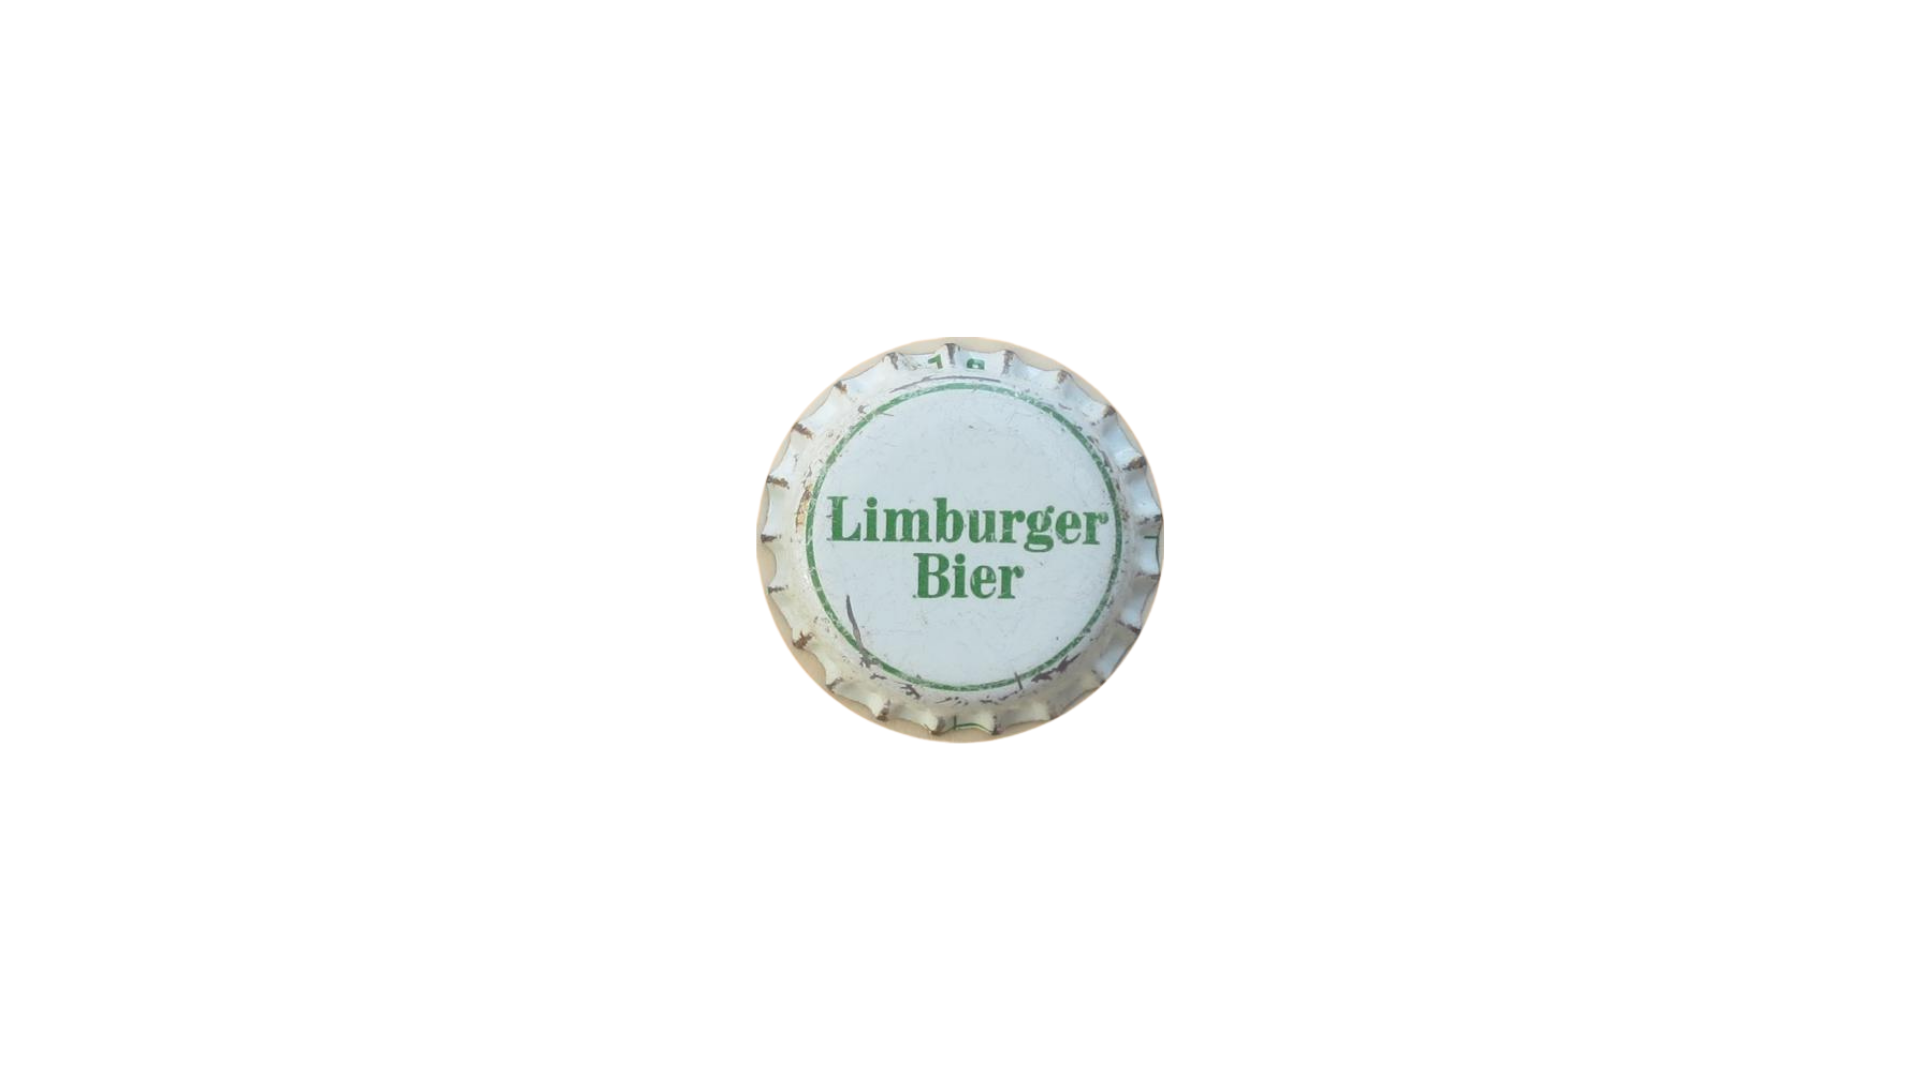
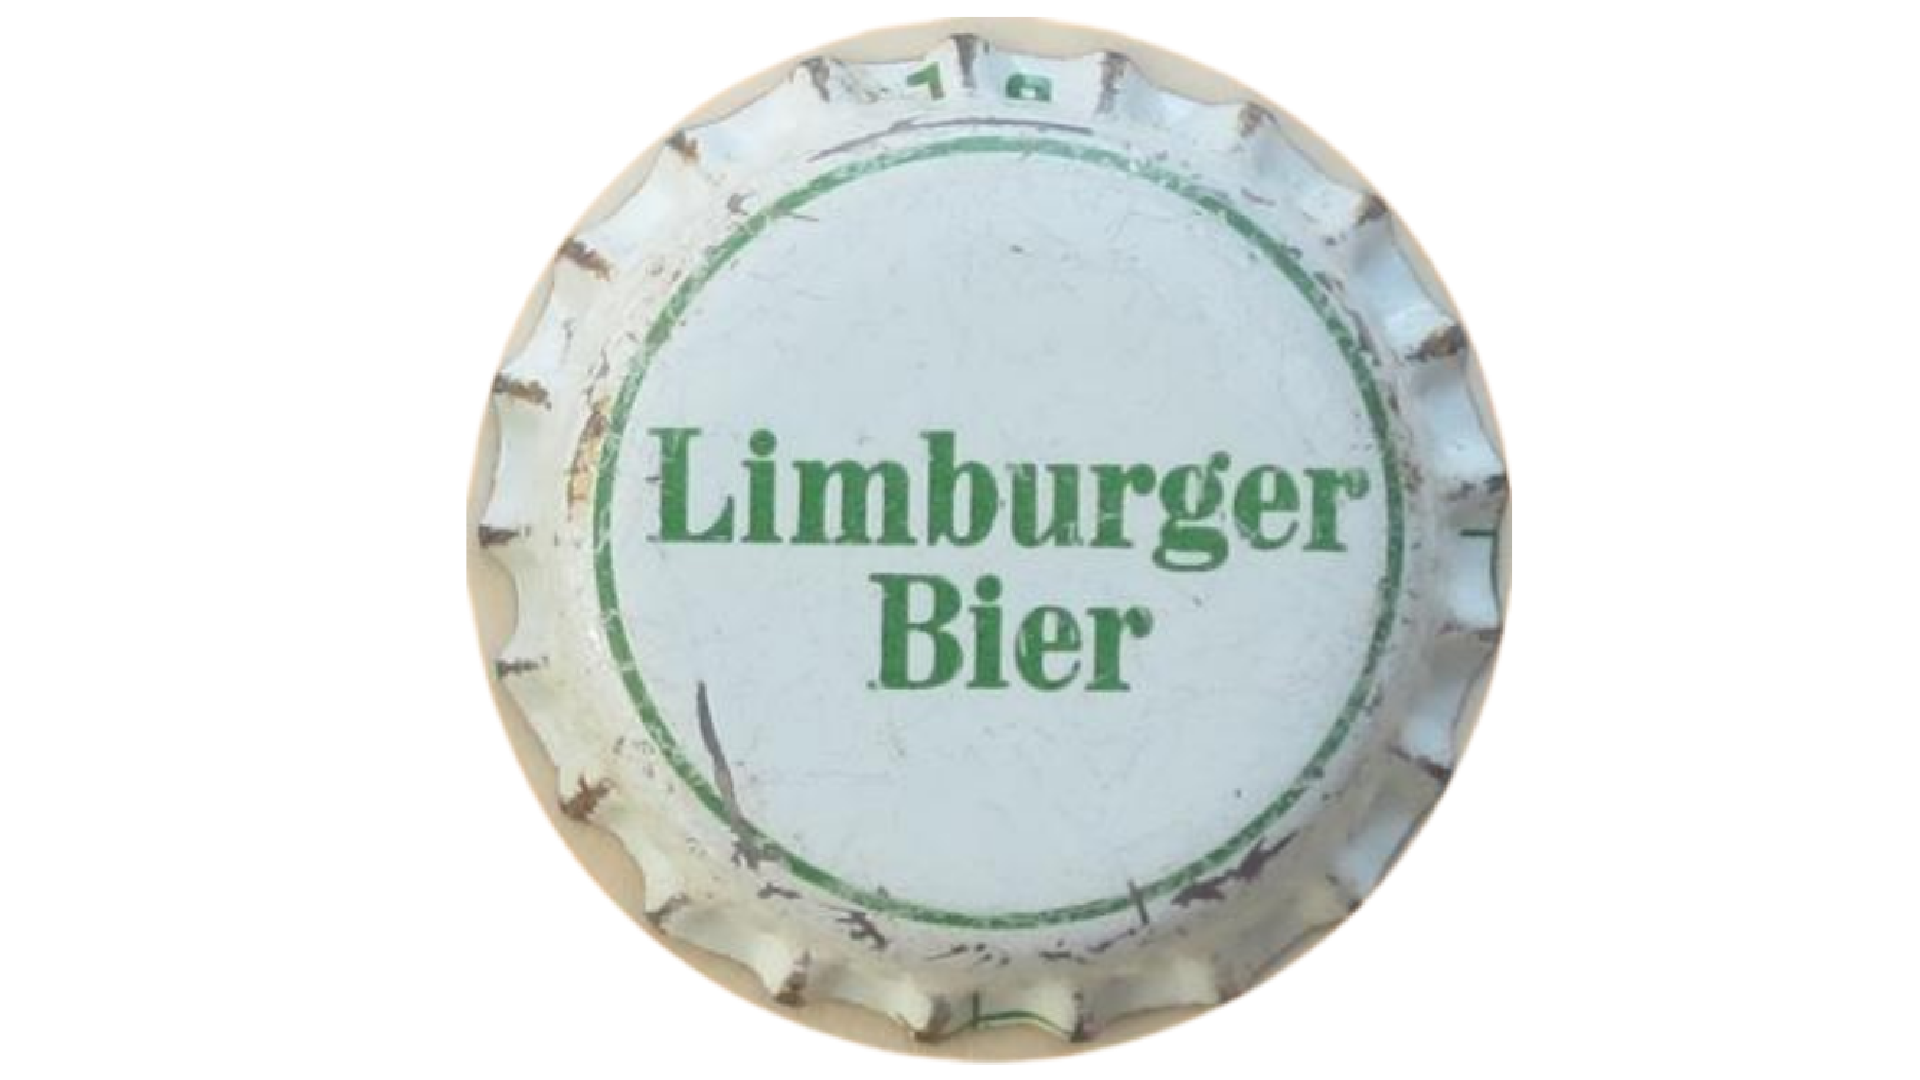
slider

diff --git a/public/css/style.css b/public/css/style.css
@@ -1,1 +1,1 @@
-a{text-decoration:none !important}.hero_area{min-height:100vh;background:radial-gradient(circle, #009300 0%, #000d00 100%);display:flex;flex-direction:column;position:relative}.header_section .container-fluid{padding:0 25px}.custom_nav-container{z-index:9;padding:0;height:80px;justify-content:space-between}.navbar-brand{display:flex;flex-direction:column;align-items:center}.navbar-brand img{margin-top:5px;width:78px}a,a:hover,a:focus{text-decoration:none}.navbar-brand span{color:#ffffff;font-size:24px;font-weight:bold;text-transform:uppercase}.custom_menu-btn{z-index:9;position:absolute;right:0;top:7px}.menu_btn-style{position:fixed;right:15px;top:7px}.menu_btn-style button .s-1{transform:rotate(45deg) translateY(16px)}.menu_btn-style button .s-2{transform:translateX(100px)}.menu_btn-style button .s-3{transform:rotate(-45deg) translateY(-16px)}.custom_menu-btn button{margin-top:14px;outline:none;border:none;background-color:transparent}.custom_menu-btn button span{display:block;width:35px;height:4px;background-color:#ffffff;margin:7px 0;transition:all 0.3s;border-radius:5px}.custom_menu-btn .s-2{transition:all 0.1s;margin-left:-5px}.overlay{height:100%;width:0;position:fixed;z-index:1;top:0;left:0;background-color:black;background-color:#004300;overflow-x:hidden;transition:0.5s}.overlay a{font-family:"Open Sans", sans-serif;padding:0px;text-decoration:none;font-size:22px;color:#ffffff;display:block;transition:0.3s;margin-bottom:15px;text-transform:uppercase;font-weight:bold;opacity:0}.overlay-content{position:relative;top:30%;width:100%;text-align:center;margin-top:30px}.menu_width{width:100%}.menu_width.overlay a{opacity:1}.headline_section{flex:1;display:flex;justify-content:center;align-items:center;position:relative}.headline_section .row{align-items:center}.headline_section .detail-box{color:#ffffff}.headline_section .detail-box h1{font-family:"Righteous", cursive;font-size:2.5rem;padding-bottom:15px;position:relative;text-transform:uppercase;font-weight:600}.headline_section .detail-box h1 span{font-size:4rem}p{font-family:"Open Sans", sans-serif}.headline_section .detail-box .btn-box{display:flex;margin-top:25px}.btn-box{display:flex;flex-wrap:wrap;margin:35px -5px 0 -5px}.headline_section .detail-box .btn-box .btn-1{display:inline-block;padding:12px 45px;color:#000000;transition:all 0.3s;border-radius:3px;text-transform:uppercase}.headline_section .detail-box .btn-box .btn-1:hover{color:whitesmoke}.headline_section .detail-box .btn-box a{width:auto}.btn-box .btn-1{display:inline-block;padding:12px 45px;background-color:#ffffff;color:#000000;transition:all 0.3s;border:1px solid #ffffff;border-radius:3px;text-transform:uppercase;text-decoration:none;font-family:"Righteous", cursive;box-shadow:2px 4px 6px rgba(0,0,0,0.2);transition:box-shadow 0.3s ease, transform 0.2s ease}.btn-box a{width:175px;margin:5px;text-align:center;text-decoration:none}.btn-box .btn-1:hover{background-color:transparent;color:#ffffff;box-shadow:4px 8px 12px rgba(0,0,0,0.3);transform:translateY(-2px)}a,a:hover,a:focus{text-decoration:none}.headline_section .detail-box{color:#ffffff}.slider_section{position:relative;color:#ffffff;flex:1;display:flex;align-items:center;justify-content:center;padding:45px 0 90px 0}.slider_section #customCarousel1{width:100%}.slider_section .container{position:relative;z-index:2}.slider_section .row{align-items:center}.slider_section .detail-box h1{font-weight:bold;font-size:3.5rem;font-family:'Poppins', sans-serif}.slider_section .detail-box img{width:30px;height:30px}.slider_section .detail-box a{margin-top:45px;text-transform:uppercase;display:inline-block;padding:10px 45px;background-color:#279112;color:#ffffff;transition:all 0.3s;border:1px solid #279112;border-radius:0;font-weight:500}.slider_section .detail-box a:hover{background-color:transparent;color:#d0ddce;box-shadow:4px 8px 12px rgba(0,0,0,0.3);transform:translateY(-2px);border:2px solid #279112}.slider_section .carousel-indicators{position:unset;margin-top:45px;list-style-type:none}.slider_section .carousel-indicators li{text-indent:unset;border:none;background-color:#252525;opacity:1;width:12px;height:12px;transition:all .2s}.slider_section .carousel-indicators li.active{background-color:#279112;width:25px}@media (max-width: 767px){.headline_section .detail-box{text-align:center;margin-bottom:45px}.headline_section .detail-box .btn-box{justify-content:center}}@media (max-width: 992px){.headline_section .detail-box h1{font-size:1.9rem}}@media (max-width: 768px){.slider_section{text-align:center}}@media (max-width: 992px){.slider_section{padding-top:45px}}
+a{text-decoration:none !important}.hero_area{min-height:100vh;background:radial-gradient(circle, #009300 0%, #000d00 100%);display:flex;flex-direction:column;position:relative}.header_section .container-fluid{padding:0 25px}.custom_nav-container{z-index:9;padding:0;height:80px;justify-content:space-between}.navbar-brand{display:flex;flex-direction:column;align-items:center}.navbar-brand img{margin-top:5px;width:78px}a,a:hover,a:focus{text-decoration:none}.navbar-brand span{color:#ffffff;font-size:24px;font-weight:bold;text-transform:uppercase}.custom_menu-btn{z-index:9;position:absolute;right:0;top:7px}.menu_btn-style{position:fixed;right:15px;top:7px}.menu_btn-style button .s-1{transform:rotate(45deg) translateY(16px)}.menu_btn-style button .s-2{transform:translateX(100px)}.menu_btn-style button .s-3{transform:rotate(-45deg) translateY(-16px)}.custom_menu-btn button{margin-top:14px;outline:none;border:none;background-color:transparent}.custom_menu-btn button span{display:block;width:35px;height:4px;background-color:#ffffff;margin:7px 0;transition:all 0.3s;border-radius:5px}.custom_menu-btn .s-2{transition:all 0.1s;margin-left:-5px}.overlay{height:100%;width:0;position:fixed;z-index:1;top:0;left:0;background-color:black;background-color:#004300;overflow-x:hidden;transition:0.5s}.overlay a{font-family:"Open Sans", sans-serif;padding:0px;text-decoration:none;font-size:22px;color:#ffffff;display:block;transition:0.3s;margin-bottom:15px;text-transform:uppercase;font-weight:bold;opacity:0}.overlay-content{position:relative;top:30%;width:100%;text-align:center;margin-top:30px}.menu_width{width:100%}.menu_width.overlay a{opacity:1}.headline_section{flex:1;display:flex;justify-content:center;align-items:center;position:relative}.headline_section .row{align-items:center}.headline_section .detail-box{color:#ffffff}.headline_section .detail-box h1{font-family:"Righteous", cursive;font-size:2.5rem;padding-bottom:15px;position:relative;text-transform:uppercase;font-weight:600}.headline_section .detail-box h1 span{font-size:4rem}p{font-family:"Open Sans", sans-serif}.headline_section .detail-box .btn-box{display:flex;margin-top:25px}.btn-box{display:flex;flex-wrap:wrap;margin:35px -5px 0 -5px}.headline_section .detail-box .btn-box .btn-1{display:inline-block;padding:12px 45px;color:#000000;transition:all 0.3s;border-radius:3px;text-transform:uppercase}.headline_section .detail-box .btn-box .btn-1:hover{color:whitesmoke}.headline_section .detail-box .btn-box a{width:auto}.btn-box .btn-1{display:inline-block;padding:12px 45px;background-color:#ffffff;color:#000000;transition:all 0.3s;border:1px solid #ffffff;border-radius:3px;text-transform:uppercase;text-decoration:none;font-family:"Righteous", cursive;box-shadow:2px 4px 6px rgba(0,0,0,0.2);transition:box-shadow 0.3s ease, transform 0.2s ease}.btn-box a{width:175px;margin:5px;text-align:center;text-decoration:none}.btn-box .btn-1:hover{background-color:transparent;color:#ffffff;box-shadow:4px 8px 12px rgba(0,0,0,0.3);transform:translateY(-2px)}a,a:hover,a:focus{text-decoration:none}.headline_section .detail-box{color:#ffffff}.slider_section{position:relative;color:#ffffff;flex:1;display:flex;align-items:center;justify-content:center;padding:45px 0 90px 0}.slider_section #customCarousel1{width:100%}.slider_section .container{position:relative;z-index:2}.slider_section .row{align-items:center}.slider_section .detail-box h1{font-weight:bold;font-size:3.5rem;font-family:'Poppins', sans-serif}.slider-cap{width:165px;margin-top:33px}.slider_section .carousel-indicators{position:unset;margin:0;list-style-type:none}.slider_section .carousel-indicators li{text-indent:unset;border:none;background-color:#252525;opacity:1;width:12px;height:12px;transition:all .2s}.slider_section .carousel-indicators li.active{background-color:#279112;width:25px}@media (max-width: 767px){.headline_section .detail-box{text-align:center;margin-bottom:45px}.headline_section .detail-box .btn-box{justify-content:center}}@media (max-width: 992px){.headline_section .detail-box h1{font-size:1.9rem}}@media (max-width: 768px){.slider_section{text-align:center}}@media (max-width: 992px){.slider_section{padding-top:45px}}

diff --git a/index.html b/index.html
@@ -81,15 +81,24 @@
                         <div class="row">
                           <div class="col-md-6">
                             <div class="detail-box">
-                              <h5>01</h5>
-                              <h1>
+                              <!-- <h1>
                                 der
                                 <br />
                                 klassiker
-                              </h1>
+                              </h1> -->
+                              <!-- <h3>Limburger Bier</h3> -->
+                              <a href="">
+                                <img
+                                  src="../Klausur02_Web/public/img/kronkorken-binding-bier.png"
+                                  alt="Kronkorken"
+                                  class="img-fluid slider-cap"
+                                />
+                              </a>
+
+                              <!-- <div class="img"></div>
                               <a href="overview.html" class=""
                                 >Jetzt anschauen</a
-                              >
+                              > -->
                             </div>
                           </div>
                         </div>
@@ -100,18 +109,14 @@
                         <div class="row">
                           <div class="col-md-6">
                             <div class="detail-box">
-                              <h1>
-                                noch
-                                <br />
-                                ein klassiker
-                              </h1>
-                              <img
-                                src="../Klausur02_Web/public/img/kronkorken-limburger-bier.png"
-                                alt=""
-                              />
-                              <a href="overview.html" class=""
-                                >Jetzt anscheun</a
-                              >
+                              <!-- <h1>ADLER</h1> -->
+                              <a href="details-kronkorken-limburger-bier">
+                                <img
+                                  src="../Klausur02_Web/public/img/kronkorken-adler.png"
+                                  alt="Kronkorken"
+                                  class="img-fluid slider-cap"
+                                />
+                              </a>
                             </div>
                           </div>
                         </div>

diff --git a/private/scss/section-homepage.scss b/private/scss/section-homepage.scss
@@ -131,38 +131,47 @@ a, a:hover, a:focus {
     font-family: 'Poppins', sans-serif;
 }
 
-.slider_section .detail-box img {
-    width: 30px;
-    height: 30px;
+// .img {
+//     background-image: url(../img/kronkorken-limburger-bier.png);
+//     background-position: center;
+//     background-size: 427%;
+//     background-repeat: no-repeat;
+//     height: 212px;
+//     width: 100%;
+// }
+
+// .slider_section .detail-box a {
+//     margin-top: 45px;
+//     text-transform: uppercase;
+//     display: inline-block;
+//     padding: 10px 45px;
+//     background-color: #279112;
+//     color: #ffffff;
+//     transition: all 0.3s;
+//     border: 1px solid #279112;
+//     border-radius: 0;
+//     font-weight: 500;
+// }
+
+// .slider_section .detail-box a:hover {
+//     background-color: transparent;
+//     color: #d0ddce;
+//     box-shadow: 4px 8px 12px rgba(0, 0, 0, 0.3);
+//     transform: translateY(-2px);
+//     border: 2px solid #279112;
+
+//   }
+
+.slider-cap {
+    width: 165px;
+    margin-top: 33px;
 }
-
-.slider_section .detail-box a {
-    margin-top: 45px;
-    text-transform: uppercase;
-    display: inline-block;
-    padding: 10px 45px;
-    background-color: #279112;
-    color: #ffffff;
-    transition: all 0.3s;
-    border: 1px solid #279112;
-    border-radius: 0;
-    font-weight: 500;
-}
-
-.slider_section .detail-box a:hover {
-    background-color: transparent;
-    color: #d0ddce;
-    box-shadow: 4px 8px 12px rgba(0, 0, 0, 0.3);
-    transform: translateY(-2px);
-    border: 2px solid #279112;
-
-  }
 
 
 
 .slider_section .carousel-indicators {
     position: unset;
-    margin-top: 45px;
+    margin: 0;
     list-style-type: none;
     
 }
